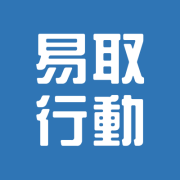
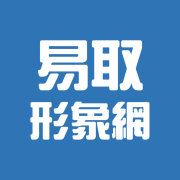
update all

Changed region(s): [[0.1667, 0.1667, 0.8333, 0.8333]]

diff --git a/index.html b/index.html
@@ -1,24 +1,24 @@
 <!DOCTYPE html>
-<html lang="zh-Hant-TW">
+<html lang="zh-Hant">
 <head>
     <meta charset="utf-8">
     <meta http-equiv="X-UA-Compatible" content="IE=edge">
     <meta name="viewport" content="width=device-width, initial-scale=1, user-scalable=no, minimum-scale=1, maximum-scale=1">
-    <meta name="description" content="易取行動科技，服務項目包括但不限於軟體培訓認證、形象網站設計、雲端系統建置。">
+    <meta name="description" content="易取形象網，服務項目包括但不限於：商業形象網站、個人形象網站、企業形象網站、會展形象網站、雲端系統建置。">
     <meta name="author" content="EachMobi">
-    <meta property="og:site_name" content="易取行動科技">
+    <meta property="og:site_name" content="易取形象網">
     <meta property="og:type" content="website">
     <meta property="og:image" content="https://eachmobi.com/img/emlogo.png">
     <meta property="og:url" content="https://eachmobi.com/">
-    <meta property="og:description" content="易取行動科技，服務項目包括但不限於軟體培訓認證、形象網站設計、雲端系統建置。">
-    <title>易取行動科技</title>
+    <meta property="og:description" content="易取形象網，服務項目包括但不限於：商業形象網站、個人形象網站、企業形象網站、會展形象網站、雲端系統建置。">
+    <title>易取形象網</title>
     <link rel="icon" type="image/x-icon" href="/favicon.png">
     <link rel="apple-touch-icon" href="/img/apple-touch-icon.png">
     <link rel='stylesheet' href='https://fonts.googleapis.com/css?family=Quicksand'>
     <link rel="stylesheet" href="https://fonts.googleapis.com/css?family=Questrial">
     <link rel="stylesheet" href="/static/bootstrap.min.css">
     <link rel="stylesheet" href="/static/fontawesome.min.css">
-    <link rel="stylesheet" href="/static/main.css?231230">
+    <link rel="stylesheet" href="/static/main.css?240315">
     <link rel="canonical" href="https://eachmobi.com/">
 </head>
 <body>
@@ -27,7 +27,7 @@
     </div>
     <nav class="navbar navbar-expand-md fixed-top navbar-main">
         <div class="container">
-            <a class="navbar-brand" href="/"><img src="/img/logo.png" class="img-logo"> <span>易取行動科技</span></a>
+            <a class="navbar-brand" href="/"><img src="/img/logo.png" class="img-logo"> <span>易取形象網</span></a>
             <div>
                 <a class="line" href="https://lin.ee/GOj0vBO" target="_blank" rel="noopener noreferrer"><i class="fa-brands fa-line"></i></a>
             </div>
@@ -38,15 +38,14 @@
                 <ul class="navbar-nav me-auto">
                 </ul>
                 <ul class="navbar-nav">
-                    <li class="nav-item"><a class="nav-link" href="#itsplans">軟體培訓</a></li>
-                    <li class="nav-item"><a class="nav-link" href="#webplans">網站設計</a></li>
+                    <li class="nav-item"><a class="nav-link" href="#webplans">形象網站</a></li>
                     <li class="nav-item"><a class="nav-link" href="#erpplans">雲端系統</a></li>
                     <li class="nav-item"><a class="nav-link" href="#contact">聯絡我們</a></li>
                 </ul>
             </div>
         </div>
     </nav>
-    <h1 class="d-none">易取行動科技</h1>
+    <h1 class="d-none">易取形象網</h1>
     <div id="main-carousel" class="main-carousel carousel slide" data-bs-ride="carousel">
         <div class="carousel-inner">
             <div class="carousel-indicators">
@@ -57,8 +56,7 @@
                 <img class="first-slide" src="/img/slide1.jpg" alt="">
                 <div class="container">
                     <div class="carousel-caption">
-                        <h2>易取行動科技</h2>
-                        <h3>EachMobi</h3>
+                        <h2>易取形象網</h2>
                     </div>
                 </div>
             </div>
@@ -66,8 +64,7 @@
                 <img class="second-slide" src="/img/slide2.jpg" alt="">
                 <div class="container">
                     <div class="carousel-caption">
-                        <h2>與您一起行動</h2>
-                        <h3>Be Your Partner</h3>
+                        <h2>行銷好夥伴</h2>
                     </div>
                 </div>
             </div>
@@ -86,159 +83,20 @@
                     <img src="/img/aboutus.jpg" alt="" class="img-fluid">
                 </div>
                 <div class="col-lg-8">
-                    <h3 class="texti-main fw-bold">易取行動科技</h3>
+                    <h3 class="texti-main fw-bold">易取形象網</h3>
                     <br>
-                    <p>易取行動科技服務團隊具備企業管理、資訊科技、網路安全及社群行銷等專長與實務經驗</p>
-                    <p><strong>服務對象</strong>包括但不限於中小企業、微型企業、工商行號</p>
-                    <p><strong>服務項目</strong>包括但不限於軟體培訓認證、形象網站設計、雲端系統建置</p>
+                    <p><strong>易取形象網</strong>服務團隊具備企業管理、資訊科技、網路安全及社群行銷等專長與實務經驗</p>
+                    <p><strong>服務對象</strong>包括但不限於：領域專家、業務菁英、中小企業、微型企業、工商行號</p>
+                    <p><strong>服務項目</strong>包括但不限於：商業形象網站、個人形象網站、企業形象網站、會展形象網站、雲端系統建置</p>
                 </div>
             </div>
-        </section>
-    </div>
-
-    <div class="container">
-        <div class="section-id" id="itsplans"></div>
-        <div class="jumbotron-section">
-            <h2><span>軟體培訓</span></h2>
-            <hr class="section-main-hr">
-        </div>
-        <section class="main-section">
-            <div class="row">
-                <div class="col-lg-4">
-                    <img src="/img/itsplans.jpg" alt="" class="img-fluid">
-                </div>
-                <div class="col-lg-8">
-                    <h3 class="texti-main fw-bold">軟體培訓認證</h3>
-                    <br>
-                    <p><span class="text-danger fw-bold">我們是 Certiport 台灣總代理碁峰資訊官方授權的考試中心</span>，提供程式語言與網頁設計相關技能培訓教學與認證考試服務</p>
-                    <p>我們提供彈性的軟體培訓課程計畫與認證服務。可以為客戶規劃制訂客製教學課程，並可視需求實施線上會議授課或內部現場培訓。有效的軟體技能培訓，能夠提升組織成員的資訊技能與實務應用能力</p>
-                </div>
-            </div>
-        </section>
-        <br>
-        <section class="main-section">
-            <div class="row text-center">
-                <div class="col-lg-12">
-                    <div class="row">
-                        <div class="col-lg-4 card card-plan mb-3">
-                            <div class="bg-itsplan1">
-                                <div class="mt-2 card-header-icon"><i class="fa-brands fa-python fa-4x"></i></div>
-                                <div class="card-body">
-                                    <h3 class="card-title text-white">Python</h3>
-                                    <br>
-                                    <ul class="list-group list-group-flush text-dark">
-                                        <li class="list-group-item">運算思維訓練</li>
-                                        <li class="list-group-item">全民程式語言</li>
-                                        <li class="list-group-item">商管程式設計</li>
-                                    </ul>
-                                    <br>
-                                </div>
-                            </div>
-                        </div>
-                        <div class="col-lg-4 card card-plan mb-3">
-                            <div class="bg-itsplan2">
-                                <div class="mt-2 card-header-icon-black"><i class="fa-brands fa-js fa-4x"></i></div>
-                                <div class="card-body">
-                                    <h3 class="card-title">JavaScript</h3>
-                                    <br>
-                                    <ul class="list-group list-group-flush text-dark">
-                                        <li class="list-group-item">運算思維訓練</li>
-                                        <li class="list-group-item">網頁程式設計</li>
-                                        <li class="list-group-item">行動網站建置</li>
-                                    </ul>
-                                    <br>
-                                </div>
-                            </div>
-                        </div>
-                        <div class="col-lg-4 card card-plan mb-3">
-                            <div class="bg-itsplan3">
-                                <div class="mt-2 card-header-icon"><i class="fa-brands fa-java fa-4x"></i></div>
-                                <div class="card-body">
-                                    <h3 class="card-title text-white">Java</h3>
-                                    <br>
-                                    <ul class="list-group list-group-flush text-dark">
-                                        <li class="list-group-item">運算思維訓練</li>
-                                        <li class="list-group-item">物件導向語言</li>
-                                        <li class="list-group-item">應用程式開發</li>
-                                    </ul>
-                                    <br>
-                                </div>
-                            </div>
-                        </div>
-                    </div>
-                </div>
-            </div>
-        </section>
-
-        <div class="jumbotron-section">
-            <h3><span>常設培訓班</span></h3>
-            <hr class="section-vice-hr">
-        </div>
-        <section class="main-section">
-            <div class="row text-center">
-                <div class="col-lg-12">
-                    <div class="row">
-                        <div class="col-lg-4 card card-plan mb-3">
-                            <div class="bg-itsplan1-sub1">
-                                <div class="mt-2 card-header-icon"><i class="fa-brands fa-python fa-4x text-dark"></i></div>
-                                <div class="card-body btn-block">
-                                    <h3 class="card-title">Python 春季班</h3>
-                                    <br>
-                                    <ul class="list-group list-group-flush text-dark">
-                                        <li class="list-group-item fw-bold">3月開課</li>
-                                        <li class="list-group-item fw-bold">24小時</li>
-                                        <li class="list-group-item">認證加強課</li>
-                                        <li class="list-group-item">任何初學者</li>
-                                    </ul>
-                                </div>
-                            </div>
-                        </div>
-                        <div class="col-lg-4 card card-plan mb-3">
-                            <div class="bg-itsplan1-sub2">
-                                <div class="mt-2 card-header-icon"><i class="fa-brands fa-python fa-4x text-dark"></i></div>
-                                <div class="card-body btn-block">
-                                    <h3 class="card-title">Python 暑期班</h3>
-                                    <br>
-                                    <ul class="list-group list-group-flush text-dark">
-                                        <li class="list-group-item fw-bold">7月開課</li>
-                                        <li class="list-group-item fw-bold">16小時</li>
-                                        <li class="list-group-item">認證入門課</li>
-                                        <li class="list-group-item">中學生限定</li>
-                                    </ul>
-                                </div>
-                            </div>
-                        </div>
-                        <div class="col-lg-4 card card-plan mb-3">
-                            <div class="bg-itsplan1-sub3">
-                                <div class="mt-2 card-header-icon"><i class="fa-brands fa-python fa-4x text-dark"></i></div>
-                                <div class="card-body btn-block">
-                                    <h3 class="card-title">Python 秋季班</h3>
-                                    <br>
-                                    <ul class="list-group list-group-flush text-dark">
-                                        <li class="list-group-item fw-bold">9月開課</li>
-                                        <li class="list-group-item fw-bold">24小時</li>
-                                        <li class="list-group-item">認證加強課</li>
-                                        <li class="list-group-item">任何初學者</li>
-                                    </ul>
-                                </div>
-                            </div>
-                        </div>
-                    </div>
-                </div>
-            </div>
-
-            <a href="https://lin.ee/GOj0vBO" target="_blank" rel="noopener noreferrer">
-                <div class="jumbotron-btn jumbotron-lineme">
-                    <h2>+ LINE 諮詢</h2>
-                </div>
-            </a>
         </section>
     </div>
 
     <div class="container">
         <div class="section-id" id="webplans"></div>
         <div class="jumbotron-section">
-            <h2><span>網站設計</span></h2>
+            <h2><span>形象網站</span></h2>
             <hr class="section-main-hr">
         </div>
         <section class="main-section">
@@ -316,7 +174,7 @@
         </section>
 
         <div class="jumbotron-section">
-            <h3><span>專家形象網站</span></h3>
+            <h3><span>領域專家網站</span></h3>
             <hr class="section-vice-hr">
         </div>
         <section class="main-section">
@@ -376,7 +234,7 @@
                 <div class="col-lg-8">
                     <h3 class="texti-main fw-bold">雲端系統建置</h3>
                     <br>
-                    <p>我們的雲端系統建置，專為中小企業與微型企業設計，兼備母子公司管理架構。因此，不僅適用於獨立公司，如果有多個營業據點想要分開管理，同樣便利</p>
+                    <p>我們的雲端系統，專為中小企業與微型企業設計，兼備母子公司管理架構。因此，不僅適用於獨立公司，如果有多個營業據點想要分開管理，同樣便利</p>
                     <p>雲端系統使用連線與資料傳輸，採取符合國際標準的安全協定，為您保障資訊安全</p>
                     <p>雲端系統的核心功能包括<strong>客戶管理</strong>、<strong>廠商管理</strong>、<strong>品項管理</strong>、<strong>工項管理</strong>、<strong>銷售管理</strong>及<strong>帳務管理</strong>等</p>
                     <p class="text-danger fw-bold">不提供進貨與存貨管理功能，不用擔心成本機密資訊上線問題</p>
@@ -470,7 +328,7 @@
                 <div class="col-lg-4 text-center mb-3">
                     <h2 class="texti-main fw-bold mb-3">需求聯繫</h2>
                     <h3 class="plan0"><i class="fa-brands fa-line fa-4x"></i></h3>
-                    <p class="texti-plan0 mb-3"><span>培訓．設計．開發</span></p>
+                    <p class="texti-plan0 mb-3"><span>形象網站設計</span></p>
                     <a href="https://lin.ee/GOj0vBO"><img src="/img/LINE-zh-Hant.png" alt="加入好友" height="48" border="0"></a>
                 </div>
         </section>
@@ -480,13 +338,13 @@
         <div class="container">
             <div class="copy-right pt-3">
                 <hr>
-                <p>&copy; 2023 易取行動科技</p>
+                <p>&copy; 2024 易取形象網</p>
             </div>
         </div>
     </footer>
     <script src="/static/jquery.min.js"></script>
     <script src="/static/bootstrap.bundle.min.js"></script>
     <script src="/static/jquery.touchSwipe.min.js"></script>
-    <script src="/static/main.js?231230"></script>
+    <script src="/static/main.js?240315"></script>
 </body>
 </html>

diff --git a/static/main.css b/static/main.css
@@ -606,45 +606,6 @@ hr.section-vice-hr {
     background-color: #33342d;
 }
 
-.bg-itsplan1 {
-    background-color: #336895;
-}
-
-.bg-itsplan1-sub1 {
-    background-color: #d5e0bd;
-    border: solid 16px #89bc1e;
-}
-
-.bg-itsplan1-sub2 {
-    background-color: #dfbeb7;
-    border: solid 16px #e55e42;
-}
-
-.bg-itsplan1-sub3 {
-    background-color: #cadfdf;
-    border: solid 16px #26babd;
-}
-
-.bg-itsplan2 {
-    background-color: #ead41c;
-}
-
-.bg-itsplan3 {
-    background-color: #d61d20;
-}
-
-.bg-locplan1 {
-    background-color: #10a1ee;
-}
-
-.bg-locplan2 {
-    background-color: #39b539;
-}
-
-.bg-locplan3 {
-    background-color: #f27937;
-}
-
 .outline li {
     padding-top: 10px;
     font-size: 20px;
